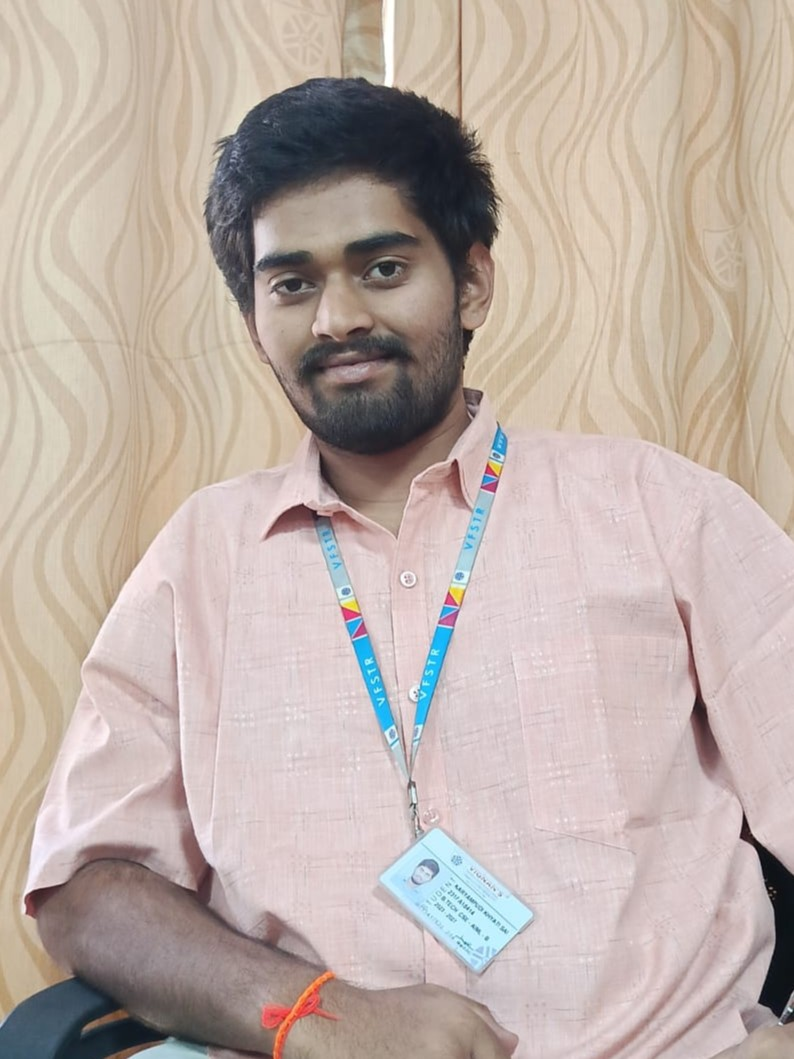
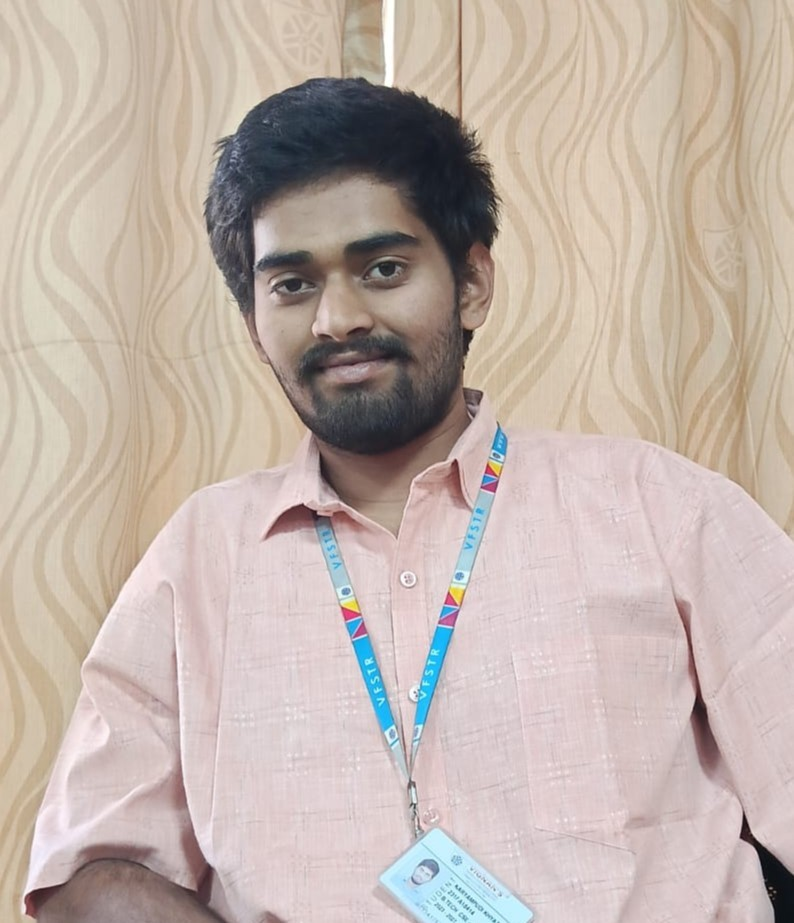
core team

diff --git a/core_team.html b/core_team.html
@@ -293,8 +293,8 @@
     </div>
     <div class="cards-row">
       <div class="member-card card-xl">
-        <img src="assets/coreteam/convener.jpg" alt="Convener" class="member-photo">
-        <div class="member-name">Dr. Name Here</div>
+        <img src="assets\core_team\con1.jpg" alt="Convener" class="member-photo">
+        <div class="member-name">Dr Sateesh Kumar Reddy</div>
         <div class="member-role">Convener</div>
       </div>
     </div>
@@ -306,13 +306,13 @@
     </div>
     <div class="cards-row">
       <div class="member-card card-lg">
-        <img src="assets/coreteam/co-convener1.jpg" alt="Co-Convener 1" class="member-photo">
-        <div class="member-name">Dr. Name Here</div>
+        <img src="assets\core_team\co-con.jpg" alt="Co-Convener 1" class="member-photo">
+        <div class="member-name">Dr ch Amarendra</div>
         <div class="member-role">Co-Convener</div>
       </div>
       <div class="member-card card-lg">
-        <img src="assets/coreteam/co-convener2.jpg" alt="Co-Convener 2" class="member-photo">
-        <div class="member-name">Dr. Name Here</div>
+        <img src="assets\core_team\co-con2.jpg" alt="Co-Convener 2" class="member-photo">
+        <div class="member-name">Mrs Jayamma Rodda</div>
         <div class="member-role">Co-Convener</div>
       </div>
     </div>
@@ -350,12 +350,12 @@
     <div class="cards-row">
       <div class="member-card card-xl">
         <img src="assets/coreteam/student-convener.jpg" alt="Student Convener" class="member-photo">
-        <div class="member-name">Name Here</div>
+        <div class="member-name">Sasank Mangamuri </div>
         <div class="member-role">Student Convener</div>
       </div>
       <div class="member-card card-xl">
         <img src="assets/coreteam/student-co-convener.jpg" alt="Student Co-Convener" class="member-photo">
-        <div class="member-name">Name Here</div>
+        <div class="member-name">Priyanka Tadikonda </div>
         <div class="member-role">Student Co-Convener</div>
       </div>
     </div>
@@ -368,7 +368,7 @@
     <div class="cards-row">
       <div class="member-card card-xl card-president">
         <img src="assets/coreteam/president.jpg" alt="President" class="member-photo">
-        <div class="member-name">Name Here</div>
+        <div class="member-name">Chinthapalli Priyatham Reddy </div>
         <div class="member-role">President</div>
       </div>
     </div>
@@ -380,8 +380,8 @@
     </div>
     <div class="cards-row">
       <div class="member-card card-lg card-president">
-        <img src="assets/coreteam/deans-nominee.jpg" alt="Dean's Nominee" class="member-photo">
-        <div class="member-name">Name Here</div>
+        <img src="assets/core_team/Paruchuru-Tarun.png" alt="Dean's Nominee" class="member-photo">
+        <div class="member-name">Paruchuru Tarun </div>
         <div class="member-role">Dean's Nominee</div>
       </div>
     </div>
@@ -394,18 +394,18 @@
     <div class="cards-row">
       <div class="member-card card-lg">
         <img src="assets/coreteam/vice-president1.jpg" alt="Vice President 1" class="member-photo">
-        <div class="member-name">Name Here</div>
-        <div class="member-role">Vice President I</div>
+        <div class="member-name">chandu gangavarapu</div>
+        <div class="member-role">Vice President </div>
       </div>
       <div class="member-card card-lg">
         <img src="assets/coreteam/vice-president2.jpg" alt="Vice President 2" class="member-photo">
-        <div class="member-name">Name Here</div>
-        <div class="member-role">Vice President II</div>
+        <div class="member-name">M.Ramya Sri</div>
+        <div class="member-role">Vice President </div>
       </div>
       <div class="member-card card-lg">
         <img src="assets/coreteam/vice-president3.jpg" alt="Vice President 3" class="member-photo">
-        <div class="member-name">Name Here</div>
-        <div class="member-role">Vice President III</div>
+        <div class="member-name">K Divya Sri</div>
+        <div class="member-role">Vice President </div>
       </div>
     </div>
 
@@ -416,9 +416,9 @@
     </div>
     <div class="cards-row">
       <div class="member-card card-lg">
-        <img src="assets/coreteam/treasurer.jpg" alt="Treasurer" class="member-photo">
-        <div class="member-name">Name Here</div>
-        <div class="member-role">Treasurer</div>
+        <img src="assets\core_team\treasure.jpeg" alt="Treasurer" class="member-photo">
+        <div class="member-name">Thanmai Siri Sandu</div>
+        <div class="member-role">Treasure</div>
       </div>
     </div>
 
@@ -429,19 +429,19 @@
     </div>
     <div class="cards-row">
       <div class="member-card card-md">
-        <img src="assets/coreteam/general-secretary1.jpg" alt="General Secretary 1" class="member-photo">
-        <div class="member-name">Name Here</div>
-        <div class="member-role">Gen. Secretary I</div>
+        <img src="assets/core_team/gs22.jpg" alt="General Secretary " class="member-photo">
+        <div class="member-name">K.Varshini</div>
+        <div class="member-role">Gen. Secretary </div>
       </div>
       <div class="member-card card-md">
-        <img src="assets/coreteam/general-secretary2.jpg" alt="General Secretary 2" class="member-photo">
-        <div class="member-name">Name Here</div>
-        <div class="member-role">Gen. Secretary II</div>
+        <img src="assets/core_team/gs3.jpeg" alt="General Secretary " class="member-photo">
+        <div class="member-name">Likhith katragadda</div>
+        <div class="member-role">Gen. Secretary </div>
       </div>
       <div class="member-card card-md">
-        <img src="assets/coreteam/general-secretary3.jpg" alt="General Secretary 3" class="member-photo">
-        <div class="member-name">Name Here</div>
-        <div class="member-role">Gen. Secretary III</div>
+        <img src="assets/core_team/gs2.jpeg" alt="General Secretary " class="member-photo">
+        <div class="member-name">Majeti Duteswar kalyan </div>
+        <div class="member-role">Gen. Secretary </div>
       </div>
     </div>
 
@@ -452,19 +452,34 @@
     </div>
     <div class="cards-row">
       <div class="member-card card-sm">
-        <img src="assets/coreteam/joint-secretary1.jpg" alt="Joint Secretary 1" class="member-photo">
-        <div class="member-name">Name Here</div>
-        <div class="member-role">Jt. Secretary I</div>
+        <img src="assets/coreteam/joint-secretary1.jpg" alt="Joint Secretary " class="member-photo">
+        <div class="member-name">Shaik Sarfi Rose </div>
+        <div class="member-role">Jt. Secretary </div>
       </div>
       <div class="member-card card-sm">
-        <img src="assets/coreteam/joint-secretary2.jpg" alt="Joint Secretary 2" class="member-photo">
-        <div class="member-name">Name Here</div>
-        <div class="member-role">Jt. Secretary II</div>
+        <img src="assets/coreteam/joint-secretary2.jpg" alt="Joint Secretary " class="member-photo">
+        <div class="member-name">SK. JASMINE</div>
+        <div class="member-role">Jt. Secretary </div>
       </div>
       <div class="member-card card-sm">
-        <img src="assets/coreteam/joint-secretary3.jpg" alt="Joint Secretary 3" class="member-photo">
-        <div class="member-name">Name Here</div>
-        <div class="member-role">Jt. Secretary III</div>
+        <img src="assets/coreteam/joint-secretary3.jpg" alt="Joint Secretary " class="member-photo">
+        <div class="member-name">Ch Lakshmi Swapna </div>
+        <div class="member-role">Jt. Secretary </div>
+      </div>
+      <div class="member-card card-sm">
+        <img src="assets/coreteam/joint-secretary1.jpg" alt="Joint Secretary " class="member-photo">
+        <div class="member-name">K.Veda Sahiti</div>
+        <div class="member-role">Jt. Secretary </div>
+      </div>
+      <div class="member-card card-sm">
+        <img src="assets/coreteam/joint-secretary2.jpg" alt="Joint Secretary " class="member-photo">
+        <div class="member-name">Pranathi Reddy</div>
+        <div class="member-role">Jt. Secretary </div>
+      </div>
+      <div class="member-card card-sm">
+        <img src="assets/coreteam/joint-secretary3.jpg" alt="Joint Secretary " class="member-photo">
+        <div class="member-name">B.Bala Krishna</div>
+        <div class="member-role">Jt. Secretary </div>
       </div>
     </div>
 

diff --git a/devteam.html b/devteam.html
@@ -121,6 +121,42 @@
       </div>
     </div>
 
+
+    <!-- Dev Card 5 -->
+<div class="dev-card">
+  <div class="card-inner">
+    <div class="card-front">
+      <img src="assets/devs/Jyothsna.jpeg" alt="Tester">
+      <h3>Quality Analyst</h3>
+    </div>
+    <div class="card-back">
+      <h3>K.E.L Jyothsna</h3>
+      <p>Ensured flawless performance by testing features, identifying bugs, and maintaining overall quality of the project.</p>
+      <div class="card-links">
+        <a href="https://www.linkedin.com/in/kotapati-eswari-lakshmi-jyothsna-6a8a0635a/" target="_blank" class="link-linkedin">💼 LinkedIn</a>
+      </div>
+    </div>
+  </div>
+</div>
+
+<!-- Dev Card 6 -->
+<div class="dev-card">
+  <div class="card-inner">
+    <div class="card-front">
+      <img src="assets/devs/harshitha.jpeg" alt="Frontend Developer">
+      <h3>Frontend Dev</h3>
+    </div>
+    <div class="card-back">
+      <h3>A. Harshitha</h3>
+      <p>Designed and developed responsive user interfaces with smooth interactions to deliver an engaging user experience.</p>
+      <div class="card-links">
+        <!-- Add links if available -->
+      </div>
+    </div>
+  </div>
+</div>
+
+
   </div>
 </section>
 

diff --git a/competitions.html b/competitions.html
@@ -290,14 +290,7 @@
           <div class="event-right"><span>Explore</span><div class="arrow">→</div></div>
         </a>
 
-        <a href="mime.html" class="event-bar">
-          <div class="event-left">
-            <span class="badge cultural">Drama</span>
-            <h2>Mime</h2>
-            <p>Express without words — let actions speak louder.</p>
-          </div>
-          <div class="event-right"><span>Explore</span><div class="arrow">→</div></div>
-        </a>
+        
 
         <a href="short.html" class="event-bar">
           <div class="event-left">
